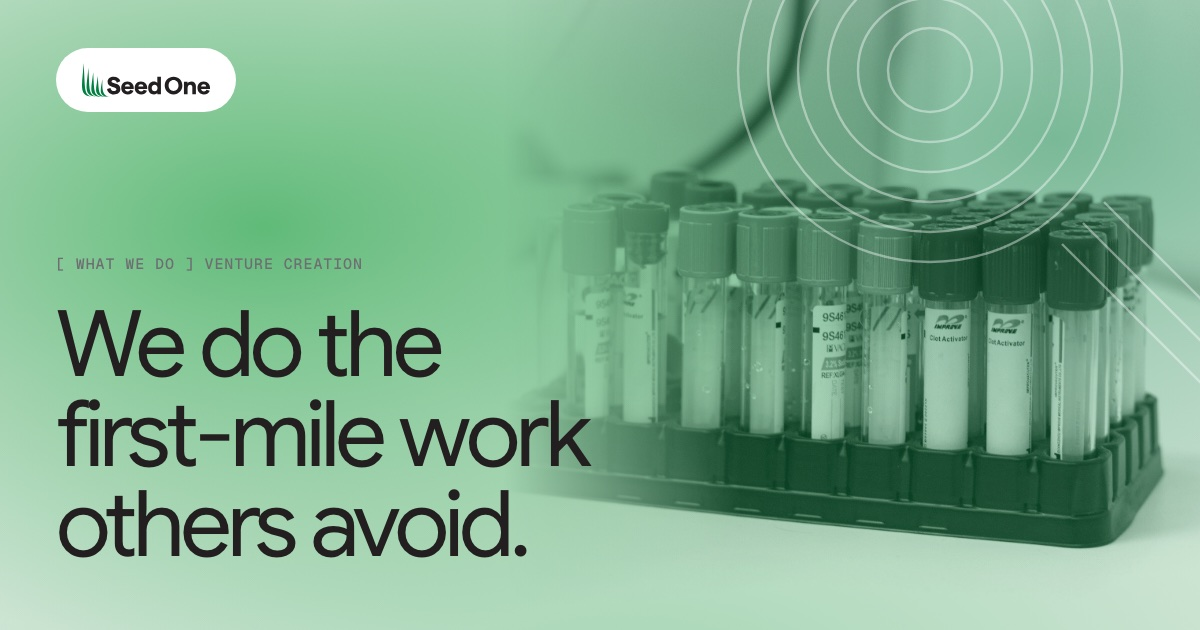
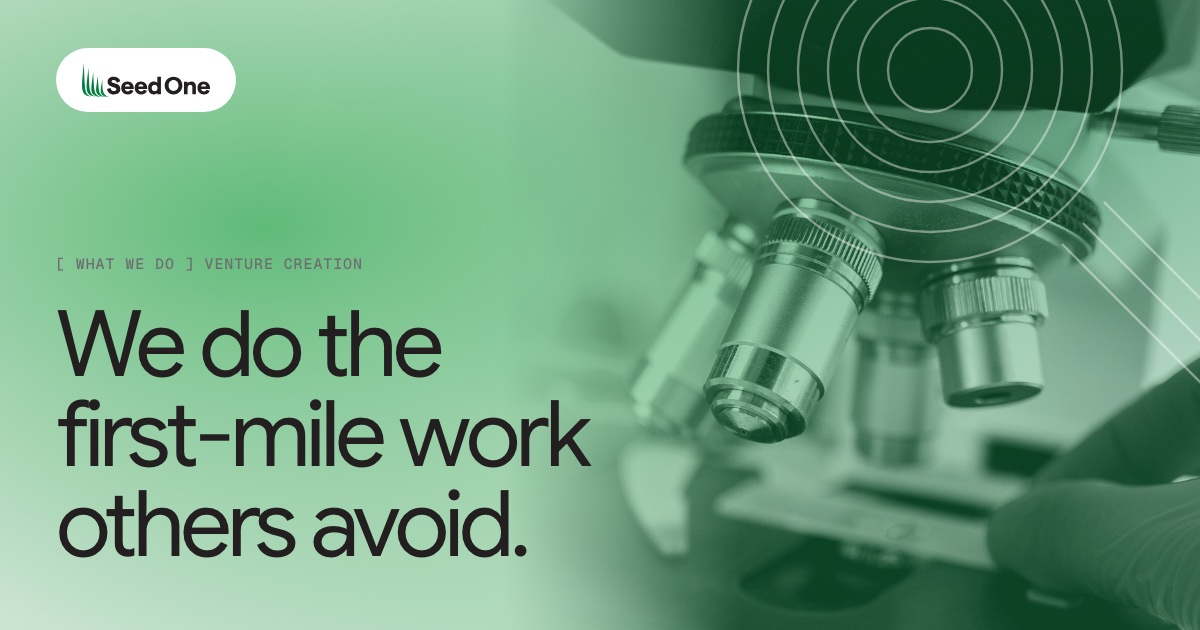
What We Do header: supplied microscope photograph, duotone, with a focal point for wide images

diff --git a/what-we-do.html b/what-we-do.html
@@ -20,7 +20,7 @@
 <link rel="preconnect" href="https://fonts.gstatic.com" crossorigin>
 <link rel="stylesheet" href="https://fonts.googleapis.com/css2?family=Google+Sans:wght@400..700&display=swap">
 <link rel="preload" as="font" type="font/woff2" href="assets/fonts/GeistMono-Variable.woff2" crossorigin>
-<link rel="stylesheet" href="styles.css?v=1792422844">
+<link rel="stylesheet" href="styles.css?v=1792422998">
 <script>try{var g=JSON.parse(localStorage.getItem('so-gate')||'null');if(!(g&&g.t&&Date.now()-g.t<7*864e5))document.documentElement.classList.add('locked')}catch(e){document.documentElement.classList.add('locked')}</script>
 <script>document.documentElement.classList.add('js');if(location.hash==='#still')document.documentElement.classList.add('still');if(/Chrome\//.test(navigator.userAgent)&&!/Edg\/|OPR\//.test(navigator.userAgent)||/Edg\//.test(navigator.userAgent))document.documentElement.classList.add('lq')</script>
 </head>
@@ -104,7 +104,7 @@ else{msg.textContent='That password is not right.';gate.classList.remove('shake'
 
 <main id="main">
 <section class="phero grad hue-g has-img">
-  <div class="phero-img" aria-hidden="true"><img src="assets/img/hero-what-we-do.jpg" srcset="assets/img/hero-what-we-do-sm.jpg 1200w, assets/img/hero-what-we-do.jpg 2400w" sizes="100vw" alt="" fetchpriority="high"></div>
+  <div class="phero-img" aria-hidden="true"><img src="assets/img/hero-what-we-do.jpg" srcset="assets/img/hero-what-we-do-sm.jpg 1200w, assets/img/hero-what-we-do.jpg 2400w" sizes="100vw" alt="" fetchpriority="high" style="object-position:88% 50%"></div>
   <svg class="art" viewBox="0 0 200 200" aria-hidden="true"><circle cx="80" cy="80" r="14"/><circle cx="80" cy="80" r="24"/><circle cx="80" cy="80" r="34"/><circle cx="80" cy="80" r="44"/><circle cx="80" cy="80" r="54"/><circle cx="80" cy="80" r="64"/><path d="M124.0 138.0 L183.0 197.0"/><path d="M131.0 131.0 L190.0 190.0"/><path d="M138.0 124.0 L197.0 183.0"/></svg>
   <div class="wrap phero-in">
     
@@ -232,6 +232,6 @@ else{msg.textContent='That password is not right.';gate.classList.remove('shake'
   </div>
 </dialog>
 <script src="assets/vendor/lenis.min.js?v=1.1.20" defer></script>
-<script src="main.js?v=1792422844" defer></script>
+<script src="main.js?v=1792422998" defer></script>
 </body>
 </html>

diff --git a/case-studies/aerin.html b/case-studies/aerin.html
@@ -20,7 +20,7 @@
 <link rel="preconnect" href="https://fonts.gstatic.com" crossorigin>
 <link rel="stylesheet" href="https://fonts.googleapis.com/css2?family=Google+Sans:wght@400..700&display=swap">
 <link rel="preload" as="font" type="font/woff2" href="../assets/fonts/GeistMono-Variable.woff2" crossorigin>
-<link rel="stylesheet" href="../styles.css?v=1792422844">
+<link rel="stylesheet" href="../styles.css?v=1792422998">
 <script>try{var g=JSON.parse(localStorage.getItem('so-gate')||'null');if(!(g&&g.t&&Date.now()-g.t<7*864e5))document.documentElement.classList.add('locked')}catch(e){document.documentElement.classList.add('locked')}</script>
 <script>document.documentElement.classList.add('js');if(location.hash==='#still')document.documentElement.classList.add('still');if(/Chrome\//.test(navigator.userAgent)&&!/Edg\/|OPR\//.test(navigator.userAgent)||/Edg\//.test(navigator.userAgent))document.documentElement.classList.add('lq')</script>
 </head>
@@ -199,6 +199,6 @@ else{msg.textContent='That password is not right.';gate.classList.remove('shake'
   </div>
 </dialog>
 <script src="../assets/vendor/lenis.min.js?v=1.1.20" defer></script>
-<script src="../main.js?v=1792422844" defer></script>
+<script src="../main.js?v=1792422998" defer></script>
 </body>
 </html>

diff --git a/case-studies/elusys.html b/case-studies/elusys.html
@@ -20,7 +20,7 @@
 <link rel="preconnect" href="https://fonts.gstatic.com" crossorigin>
 <link rel="stylesheet" href="https://fonts.googleapis.com/css2?family=Google+Sans:wght@400..700&display=swap">
 <link rel="preload" as="font" type="font/woff2" href="../assets/fonts/GeistMono-Variable.woff2" crossorigin>
-<link rel="stylesheet" href="../styles.css?v=1792422844">
+<link rel="stylesheet" href="../styles.css?v=1792422998">
 <script>try{var g=JSON.parse(localStorage.getItem('so-gate')||'null');if(!(g&&g.t&&Date.now()-g.t<7*864e5))document.documentElement.classList.add('locked')}catch(e){document.documentElement.classList.add('locked')}</script>
 <script>document.documentElement.classList.add('js');if(location.hash==='#still')document.documentElement.classList.add('still');if(/Chrome\//.test(navigator.userAgent)&&!/Edg\/|OPR\//.test(navigator.userAgent)||/Edg\//.test(navigator.userAgent))document.documentElement.classList.add('lq')</script>
 </head>
@@ -199,6 +199,6 @@ else{msg.textContent='That password is not right.';gate.classList.remove('shake'
   </div>
 </dialog>
 <script src="../assets/vendor/lenis.min.js?v=1.1.20" defer></script>
-<script src="../main.js?v=1792422844" defer></script>
+<script src="../main.js?v=1792422998" defer></script>
 </body>
 </html>

diff --git a/case-studies/zeltiq.html b/case-studies/zeltiq.html
@@ -20,7 +20,7 @@
 <link rel="preconnect" href="https://fonts.gstatic.com" crossorigin>
 <link rel="stylesheet" href="https://fonts.googleapis.com/css2?family=Google+Sans:wght@400..700&display=swap">
 <link rel="preload" as="font" type="font/woff2" href="../assets/fonts/GeistMono-Variable.woff2" crossorigin>
-<link rel="stylesheet" href="../styles.css?v=1792422844">
+<link rel="stylesheet" href="../styles.css?v=1792422998">
 <script>try{var g=JSON.parse(localStorage.getItem('so-gate')||'null');if(!(g&&g.t&&Date.now()-g.t<7*864e5))document.documentElement.classList.add('locked')}catch(e){document.documentElement.classList.add('locked')}</script>
 <script>document.documentElement.classList.add('js');if(location.hash==='#still')document.documentElement.classList.add('still');if(/Chrome\//.test(navigator.userAgent)&&!/Edg\/|OPR\//.test(navigator.userAgent)||/Edg\//.test(navigator.userAgent))document.documentElement.classList.add('lq')</script>
 </head>
@@ -199,6 +199,6 @@ else{msg.textContent='That password is not right.';gate.classList.remove('shake'
   </div>
 </dialog>
 <script src="../assets/vendor/lenis.min.js?v=1.1.20" defer></script>
-<script src="../main.js?v=1792422844" defer></script>
+<script src="../main.js?v=1792422998" defer></script>
 </body>
 </html>

diff --git a/index.html b/index.html
@@ -29,7 +29,7 @@
 <link rel="stylesheet" href="https://fonts.googleapis.com/css2?family=Google+Sans:wght@400..700&display=swap">
 <link rel="preload" as="font" type="font/woff2" href="assets/fonts/GeistMono-Variable.woff2" crossorigin>
 <link rel="preload" as="image" href="assets/video/hero-poster.jpg?v=1790674381">
-<link rel="stylesheet" href="styles.css?v=1792422844">
+<link rel="stylesheet" href="styles.css?v=1792422998">
 <script>try{var g=JSON.parse(localStorage.getItem('so-gate')||'null');if(!(g&&g.t&&Date.now()-g.t<7*864e5))document.documentElement.classList.add('locked')}catch(e){document.documentElement.classList.add('locked')}</script>
 <script>document.documentElement.classList.add('js');if(location.hash==='#still')document.documentElement.classList.add('still');if(/Chrome\//.test(navigator.userAgent)&&!/Edg\/|OPR\//.test(navigator.userAgent)||/Edg\//.test(navigator.userAgent))document.documentElement.classList.add('lq')</script>
 </head>
@@ -323,6 +323,6 @@ else{msg.textContent='That password is not right.';gate.classList.remove('shake'
 </dialog>
 
 <script src="assets/vendor/lenis.min.js?v=1.1.20" defer></script>
-<script src="main.js?v=1792422844" defer></script>
+<script src="main.js?v=1792422998" defer></script>
 </body>
 </html>

diff --git a/portfolio.html b/portfolio.html
@@ -20,7 +20,7 @@
 <link rel="preconnect" href="https://fonts.gstatic.com" crossorigin>
 <link rel="stylesheet" href="https://fonts.googleapis.com/css2?family=Google+Sans:wght@400..700&display=swap">
 <link rel="preload" as="font" type="font/woff2" href="assets/fonts/GeistMono-Variable.woff2" crossorigin>
-<link rel="stylesheet" href="styles.css?v=1792422844">
+<link rel="stylesheet" href="styles.css?v=1792422998">
 <script>try{var g=JSON.parse(localStorage.getItem('so-gate')||'null');if(!(g&&g.t&&Date.now()-g.t<7*864e5))document.documentElement.classList.add('locked')}catch(e){document.documentElement.classList.add('locked')}</script>
 <script>document.documentElement.classList.add('js');if(location.hash==='#still')document.documentElement.classList.add('still');if(/Chrome\//.test(navigator.userAgent)&&!/Edg\/|OPR\//.test(navigator.userAgent)||/Edg\//.test(navigator.userAgent))document.documentElement.classList.add('lq')</script>
 </head>
@@ -275,6 +275,6 @@ else{msg.textContent='That password is not right.';gate.classList.remove('shake'
   </div>
 </dialog>
 <script src="assets/vendor/lenis.min.js?v=1.1.20" defer></script>
-<script src="main.js?v=1792422844" defer></script>
+<script src="main.js?v=1792422998" defer></script>
 </body>
 </html>

diff --git a/privacy.html b/privacy.html
@@ -20,7 +20,7 @@
 <link rel="preconnect" href="https://fonts.gstatic.com" crossorigin>
 <link rel="stylesheet" href="https://fonts.googleapis.com/css2?family=Google+Sans:wght@400..700&display=swap">
 <link rel="preload" as="font" type="font/woff2" href="assets/fonts/GeistMono-Variable.woff2" crossorigin>
-<link rel="stylesheet" href="styles.css?v=1792422844">
+<link rel="stylesheet" href="styles.css?v=1792422998">
 <script>try{var g=JSON.parse(localStorage.getItem('so-gate')||'null');if(!(g&&g.t&&Date.now()-g.t<7*864e5))document.documentElement.classList.add('locked')}catch(e){document.documentElement.classList.add('locked')}</script>
 <script>document.documentElement.classList.add('js');if(location.hash==='#still')document.documentElement.classList.add('still');if(/Chrome\//.test(navigator.userAgent)&&!/Edg\/|OPR\//.test(navigator.userAgent)||/Edg\//.test(navigator.userAgent))document.documentElement.classList.add('lq')</script>
 </head>
@@ -167,6 +167,6 @@ else{msg.textContent='That password is not right.';gate.classList.remove('shake'
   </div>
 </dialog>
 <script src="assets/vendor/lenis.min.js?v=1.1.20" defer></script>
-<script src="main.js?v=1792422844" defer></script>
+<script src="main.js?v=1792422998" defer></script>
 </body>
 </html>

diff --git a/team.html b/team.html
@@ -20,7 +20,7 @@
 <link rel="preconnect" href="https://fonts.gstatic.com" crossorigin>
 <link rel="stylesheet" href="https://fonts.googleapis.com/css2?family=Google+Sans:wght@400..700&display=swap">
 <link rel="preload" as="font" type="font/woff2" href="assets/fonts/GeistMono-Variable.woff2" crossorigin>
-<link rel="stylesheet" href="styles.css?v=1792422844">
+<link rel="stylesheet" href="styles.css?v=1792422998">
 <script>try{var g=JSON.parse(localStorage.getItem('so-gate')||'null');if(!(g&&g.t&&Date.now()-g.t<7*864e5))document.documentElement.classList.add('locked')}catch(e){document.documentElement.classList.add('locked')}</script>
 <script>document.documentElement.classList.add('js');if(location.hash==='#still')document.documentElement.classList.add('still');if(/Chrome\//.test(navigator.userAgent)&&!/Edg\/|OPR\//.test(navigator.userAgent)||/Edg\//.test(navigator.userAgent))document.documentElement.classList.add('lq')</script>
 </head>
@@ -233,6 +233,6 @@ else{msg.textContent='That password is not right.';gate.classList.remove('shake'
   </div>
 </dialog>
 <script src="assets/vendor/lenis.min.js?v=1.1.20" defer></script>
-<script src="main.js?v=1792422844" defer></script>
+<script src="main.js?v=1792422998" defer></script>
 </body>
 </html>

diff --git a/terms.html b/terms.html
@@ -20,7 +20,7 @@
 <link rel="preconnect" href="https://fonts.gstatic.com" crossorigin>
 <link rel="stylesheet" href="https://fonts.googleapis.com/css2?family=Google+Sans:wght@400..700&display=swap">
 <link rel="preload" as="font" type="font/woff2" href="assets/fonts/GeistMono-Variable.woff2" crossorigin>
-<link rel="stylesheet" href="styles.css?v=1792422844">
+<link rel="stylesheet" href="styles.css?v=1792422998">
 <script>try{var g=JSON.parse(localStorage.getItem('so-gate')||'null');if(!(g&&g.t&&Date.now()-g.t<7*864e5))document.documentElement.classList.add('locked')}catch(e){document.documentElement.classList.add('locked')}</script>
 <script>document.documentElement.classList.add('js');if(location.hash==='#still')document.documentElement.classList.add('still');if(/Chrome\//.test(navigator.userAgent)&&!/Edg\/|OPR\//.test(navigator.userAgent)||/Edg\//.test(navigator.userAgent))document.documentElement.classList.add('lq')</script>
 </head>
@@ -167,6 +167,6 @@ else{msg.textContent='That password is not right.';gate.classList.remove('shake'
   </div>
 </dialog>
 <script src="assets/vendor/lenis.min.js?v=1.1.20" defer></script>
-<script src="main.js?v=1792422844" defer></script>
+<script src="main.js?v=1792422998" defer></script>
 </body>
 </html>

diff --git a/contact.html b/contact.html
@@ -20,7 +20,7 @@
 <link rel="preconnect" href="https://fonts.gstatic.com" crossorigin>
 <link rel="stylesheet" href="https://fonts.googleapis.com/css2?family=Google+Sans:wght@400..700&display=swap">
 <link rel="preload" as="font" type="font/woff2" href="assets/fonts/GeistMono-Variable.woff2" crossorigin>
-<link rel="stylesheet" href="styles.css?v=1792422844">
+<link rel="stylesheet" href="styles.css?v=1792422998">
 <script>try{var g=JSON.parse(localStorage.getItem('so-gate')||'null');if(!(g&&g.t&&Date.now()-g.t<7*864e5))document.documentElement.classList.add('locked')}catch(e){document.documentElement.classList.add('locked')}</script>
 <script>document.documentElement.classList.add('js');if(location.hash==='#still')document.documentElement.classList.add('still');if(/Chrome\//.test(navigator.userAgent)&&!/Edg\/|OPR\//.test(navigator.userAgent)||/Edg\//.test(navigator.userAgent))document.documentElement.classList.add('lq')</script>
 </head>
@@ -165,6 +165,6 @@ else{msg.textContent='That password is not right.';gate.classList.remove('shake'
 
 
 <script src="assets/vendor/lenis.min.js?v=1.1.20" defer></script>
-<script src="main.js?v=1792422844" defer></script>
+<script src="main.js?v=1792422998" defer></script>
 </body>
 </html>
